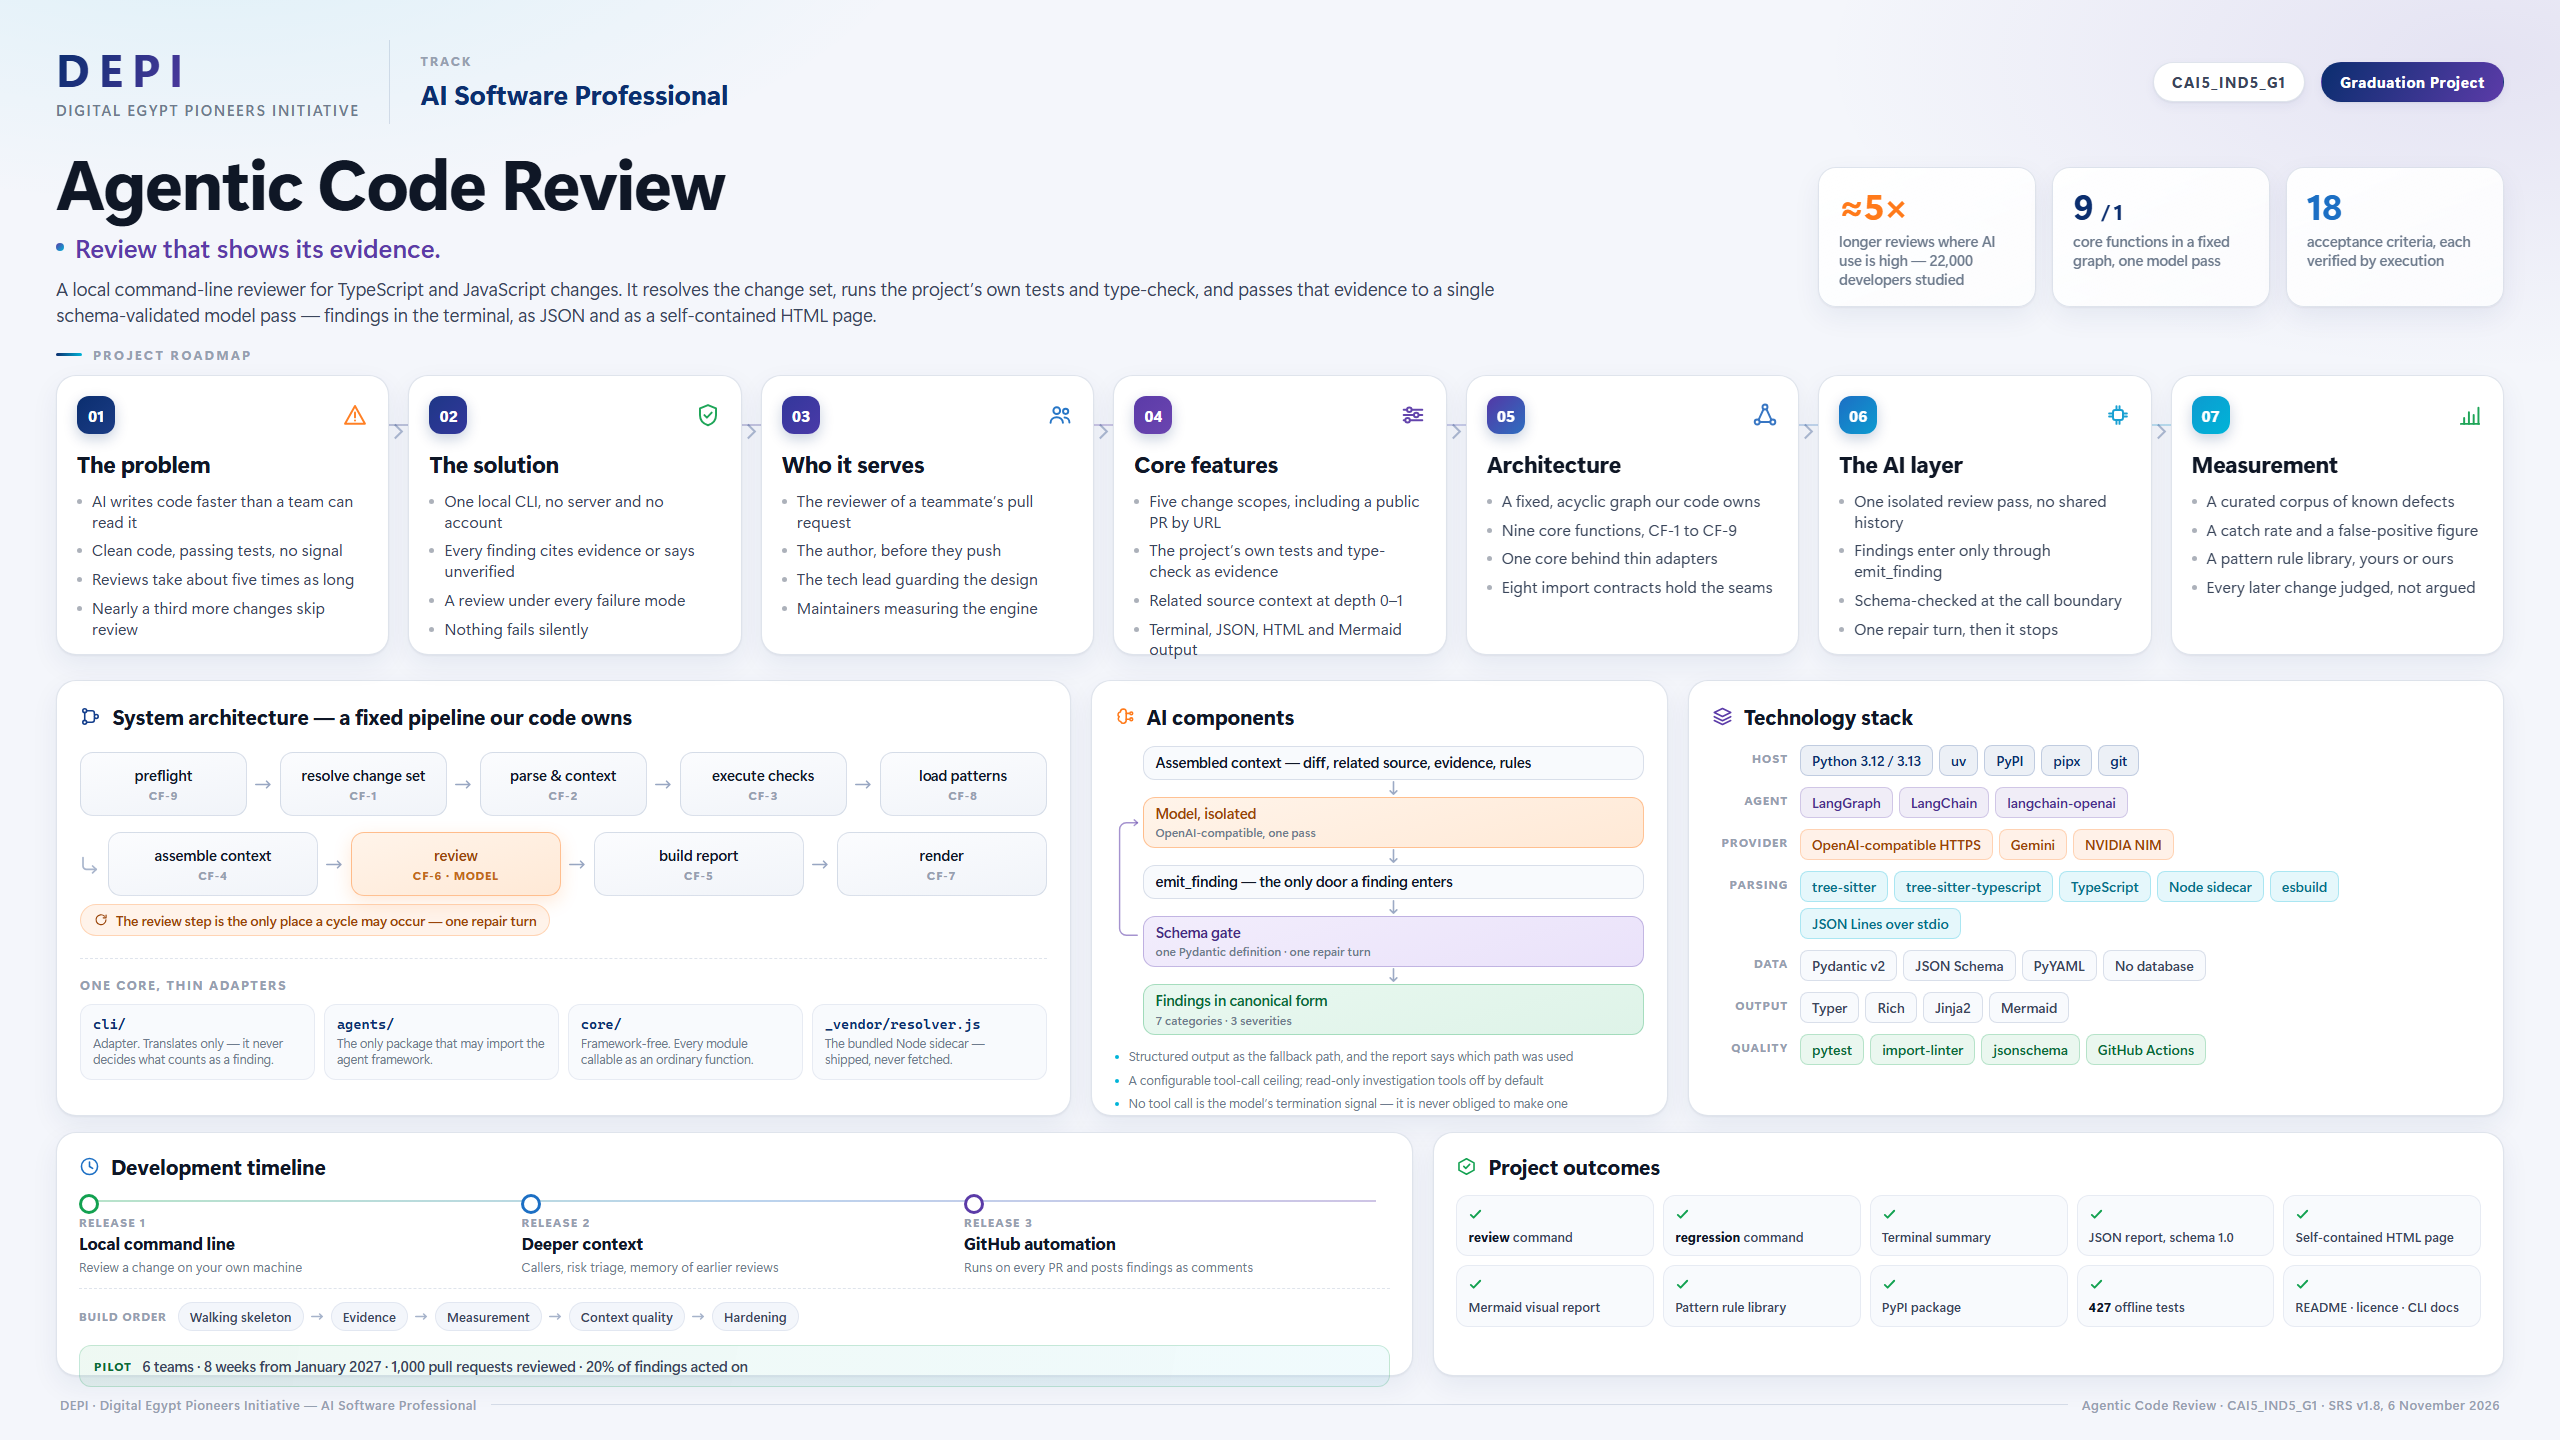
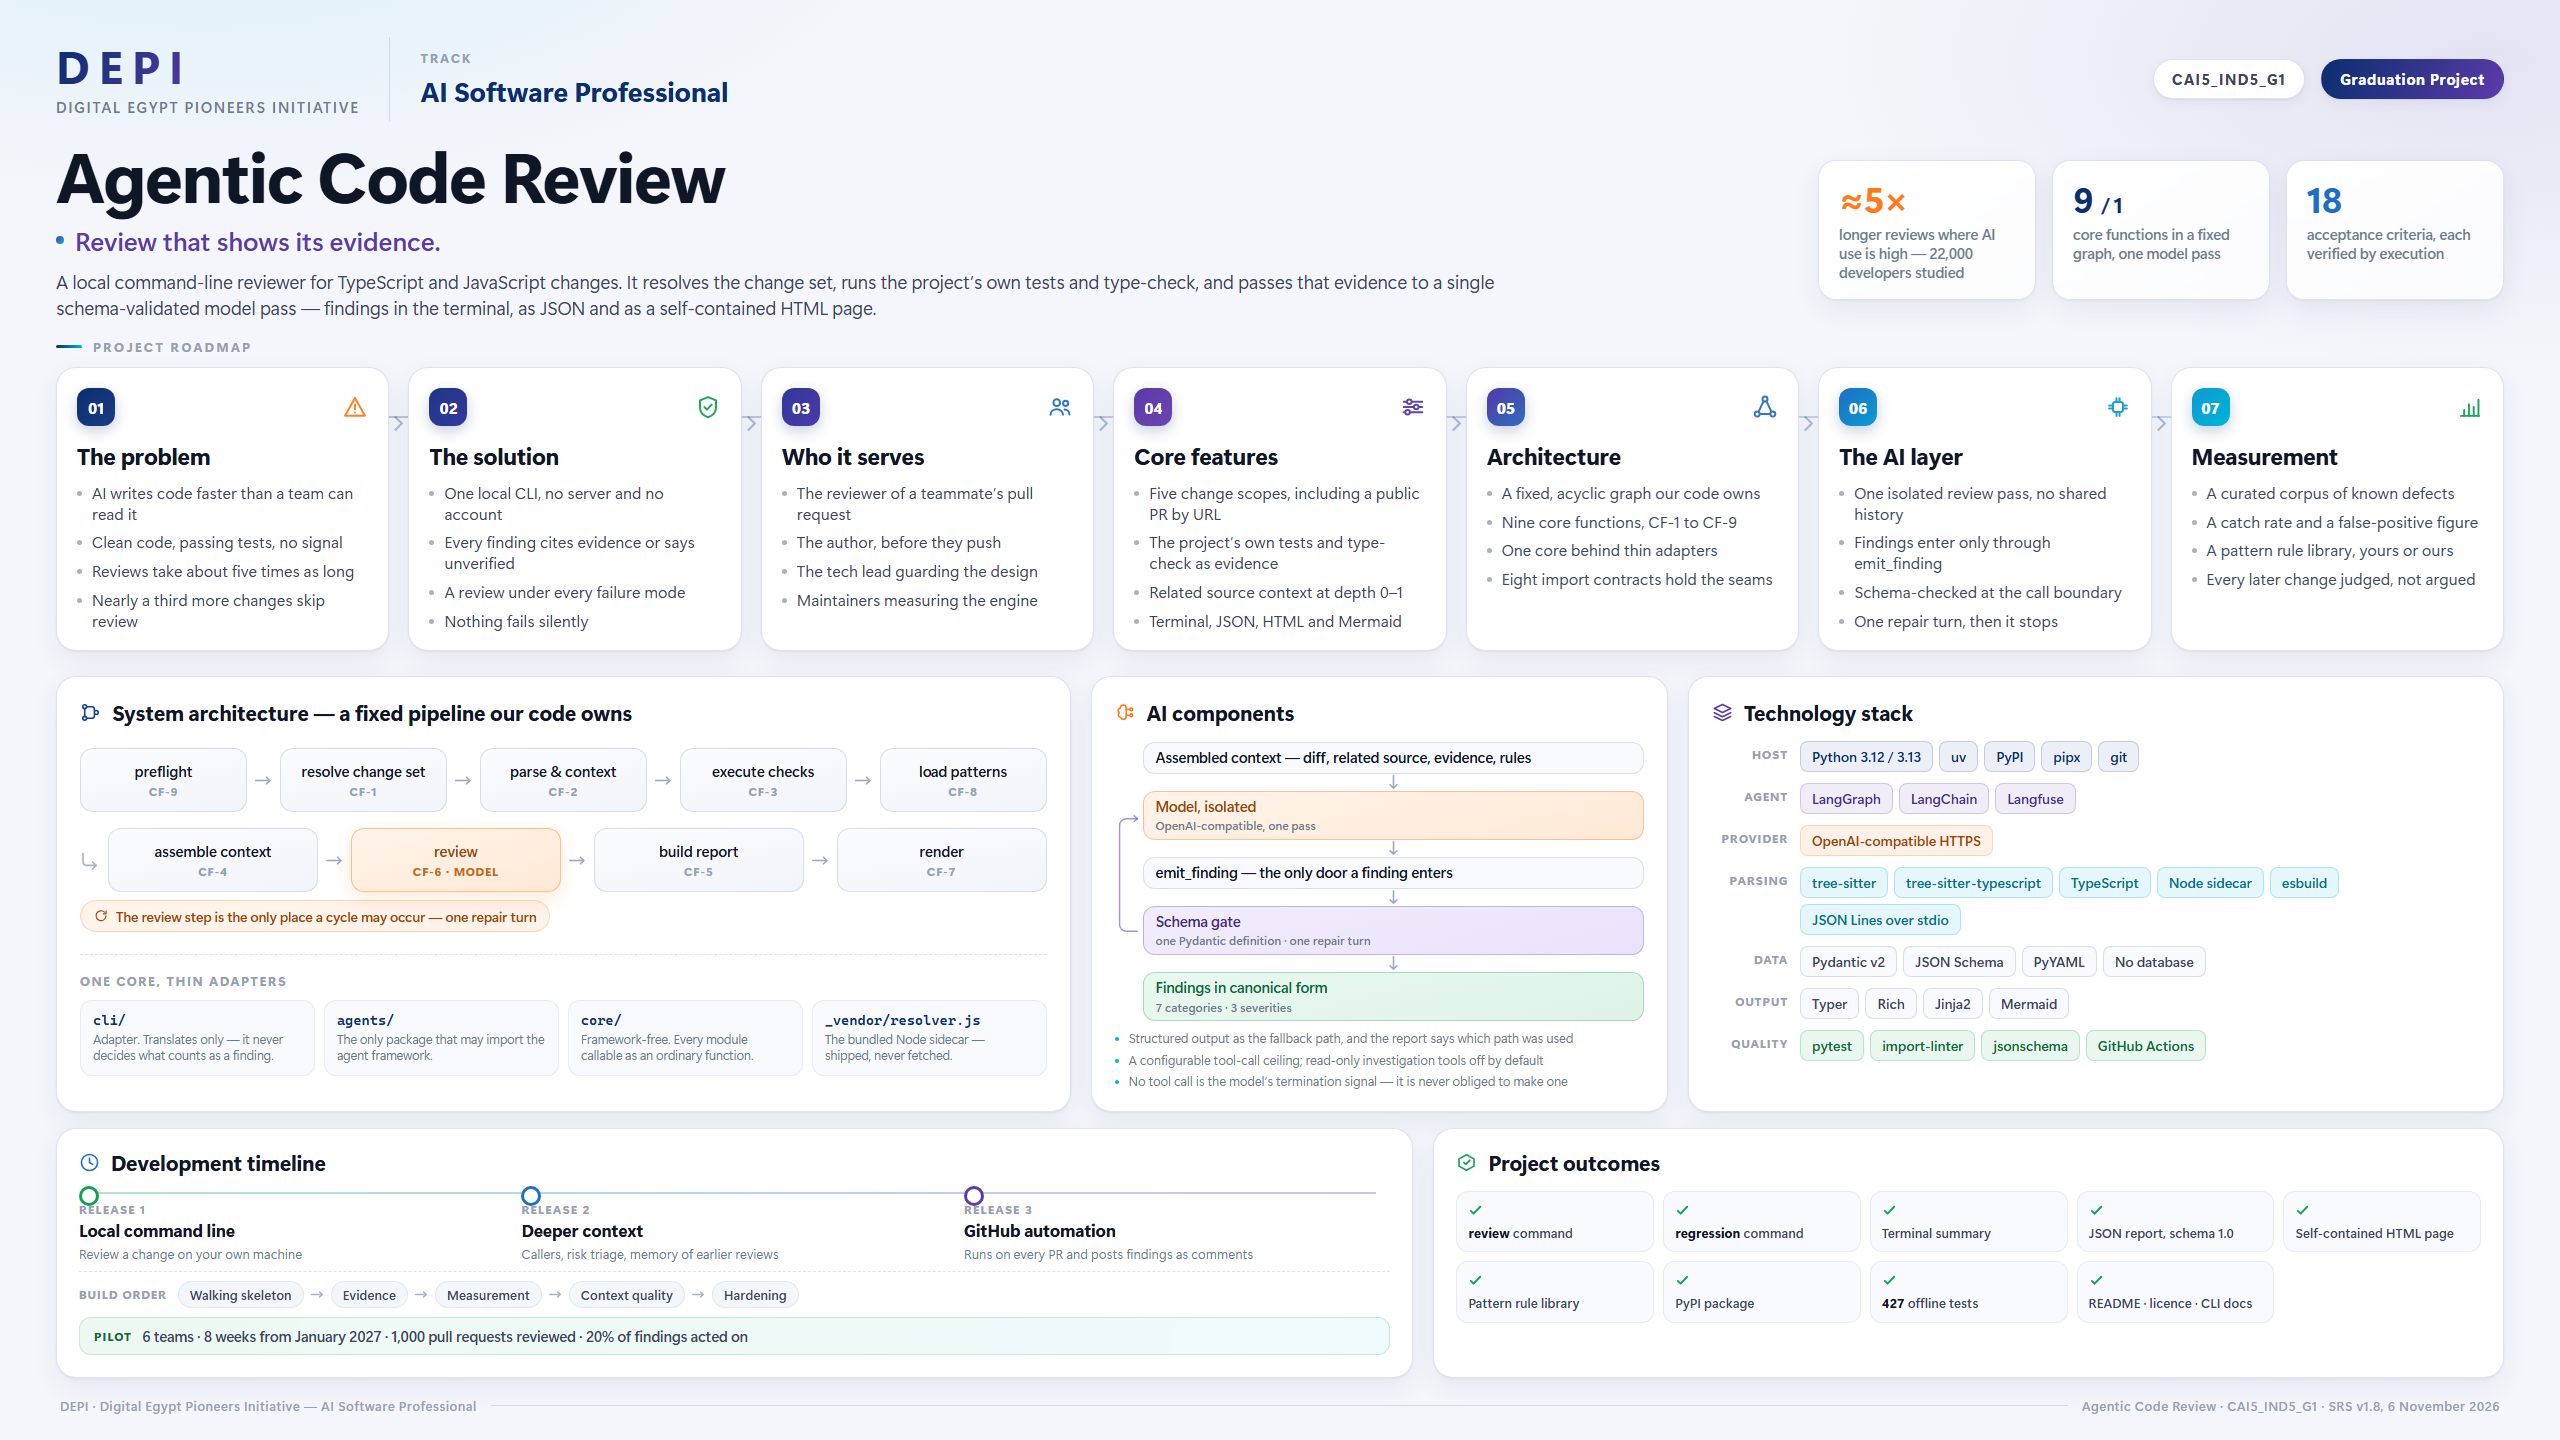
docs(infographic): keep card content inside its card, and revise the stack
Three boxes overflowed: the Core features stage by 6px, Development
timeline by 13px, and the AI components notes sat 14px into a 21px
bottom padding, so all three read as text crossing the card border.

Measured rather than eyeballed. Every .card and .st is now checked by
comparing its lowest child's bottom against its content-box bottom; the
worst box has 2.4px of headroom left and nothing scrolls. Space came
from the header, title and footer bands, which had slack, plus tighter
spacing in the two offenders and one bullet shortened by a line. The
folder README carries the console snippet that does the measuring.

Also revised, as asked: the provider row names only the protocol,
OpenAI-compatible HTTPS, rather than individual endpoints; Langfuse
replaces langchain-openai in the agent row; and the Mermaid visual
report is no longer listed as a project outcome.

diff --git a/Docs/assets/infographic/agentic-code-review-depi-slide.html b/Docs/assets/infographic/agentic-code-review-depi-slide.html
@@ -29,7 +29,7 @@ body{
 .band{flex:none}
 
 /* Band A - DEPI header */
-.hdr{height:92px;display:flex;align-items:center;gap:30px}
+.hdr{height:86px;display:flex;align-items:center;gap:30px}
 .mark{
   display:flex;flex-direction:column;justify-content:center;
   height:84px;padding:0 30px 0 0;border-right:1px solid var(--line);
@@ -52,7 +52,7 @@ body{
 .pill-id.accent{background:linear-gradient(118deg,var(--blue),var(--purple));border-color:transparent;color:#fff;letter-spacing:.06em}
 
 /* Band B - title strip */
-.title{height:186px;display:flex;align-items:center;gap:40px}
+.title{height:184px;display:flex;align-items:center;gap:40px}
 .title-l{flex:1;min-width:0}
 h1{font-size:70px;font-weight:720;letter-spacing:-.022em;line-height:1.02;color:var(--ink)}
 .tag{
@@ -81,8 +81,8 @@ h1{font-size:70px;font-weight:720;letter-spacing:-.022em;line-height:1.02;color:
 .ctitle svg{width:21px;height:21px;flex:none}
 
 /* Band C - roadmap */
-.road{height:318px}
-.track{position:relative;display:flex;gap:19px;height:280px}
+.road{height:322px}
+.track{position:relative;display:flex;gap:19px;height:284px}
 .track:before{
   content:"";position:absolute;left:30px;right:30px;top:49px;height:2px;border-radius:2px;
   background:linear-gradient(90deg,var(--blue) 0%,var(--purple) 48%,var(--cyan) 100%);opacity:.26;
@@ -147,7 +147,7 @@ h1{font-size:70px;font-weight:720;letter-spacing:-.022em;line-height:1.02;color:
 .ai{position:relative;margin-top:16px;padding-left:28px}
 .ai-loop{position:absolute;left:0;top:70px;width:26px;height:126px}
 .ai-step{
-  padding:7px 12px;border-radius:12px;border:1px solid var(--line);background:#F8FAFD;
+  padding:6px 12px;border-radius:12px;border:1px solid var(--line);background:#F8FAFD;
   font-size:14.5px;font-weight:600;color:var(--ink);line-height:1.22;
 }
 .ai-step .s{display:block;margin-top:3px;font-size:12px;font-weight:500;color:var(--ink-3)}
@@ -156,7 +156,7 @@ h1{font-size:70px;font-weight:720;letter-spacing:-.022em;line-height:1.02;color:
 .ai-step.out{background:linear-gradient(165deg,#E9F8F0,#DEF3E8);border-color:rgba(18,161,80,.3);color:#0B6B36}
 .ai-arw{display:flex;justify-content:center;padding:1px 0}
 .ai-arw svg{width:9px;height:15px;opacity:.4}
-.ai-notes{margin-top:13px;display:flex;flex-direction:column;gap:7px}
+.ai-notes{margin-top:9px;display:flex;flex-direction:column;gap:5px}
 .ai-notes div{position:relative;padding-left:14px;font-size:12.8px;font-weight:450;line-height:1.28;color:var(--ink-3)}
 .ai-notes div:before{content:"";position:absolute;left:0;top:7px;width:4px;height:4px;border-radius:50%;background:var(--cyan)}
 
@@ -172,23 +172,23 @@ h1{font-size:70px;font-weight:720;letter-spacing:-.022em;line-height:1.02;color:
 .bg.g{background:rgba(18,161,80,.09);border-color:rgba(18,161,80,.24);color:#0B6B36}
 
 /* Band E - timeline + outcomes */
-.foot{height:244px;display:flex;gap:20px}
+.foot{height:250px;display:flex;gap:20px}
 .foot>.card{padding:19px 22px}
 .tl{flex:1.28;min-width:0} .oc{flex:1;min-width:0}
-.rel{position:relative;margin-top:13px;display:flex;gap:16px}
+.rel{position:relative;margin-top:9px;display:flex;gap:16px}
 .rel:before{content:"";position:absolute;left:14px;right:14px;top:7px;height:2px;background:linear-gradient(90deg,var(--green),var(--blue-3),var(--purple));opacity:.3}
-.rl{flex:1;min-width:0;position:relative;padding-top:22px}
+.rl{flex:1;min-width:0;position:relative;padding-top:17px}
 .rl:before{content:"";position:absolute;left:0;top:1px;width:14px;height:14px;border-radius:50%;background:#fff;border:3px solid var(--green)}
 .rl:nth-child(2):before{border-color:var(--blue-3)} .rl:nth-child(3):before{border-color:var(--purple)}
 .rl .r{font-size:11.5px;font-weight:700;letter-spacing:.13em;color:var(--ink-4)}
 .rl .h{margin-top:2px;font-size:17px;font-weight:660;letter-spacing:-.008em;color:var(--ink)}
 .rl .d{margin-top:4px;font-size:13.2px;font-weight:450;line-height:1.3;color:var(--ink-3)}
-.steps{margin-top:13px;padding-top:13px;border-top:1px dashed var(--line);display:flex;align-items:center;gap:7px}
+.steps{margin-top:9px;padding-top:9px;border-top:1px dashed var(--line);display:flex;align-items:center;gap:7px}
 .steps .lb{flex:none;font-size:11.5px;font-weight:700;letter-spacing:.11em;text-transform:uppercase;color:var(--ink-4);margin-right:4px}
-.sp{padding:5px 11px;border-radius:999px;background:#F3F6FB;border:1px solid var(--line-2);font-size:13.2px;font-weight:570;color:var(--ink-2);white-space:nowrap}
+.sp{padding:4px 11px;border-radius:999px;background:#F3F6FB;border:1px solid var(--line-2);font-size:13.2px;font-weight:570;color:var(--ink-2);white-space:nowrap}
 .steps .sq{flex:none;width:13px;height:7px;opacity:.36}
 .pilot{
-  margin-top:14px;display:flex;align-items:center;gap:10px;padding:10px 14px;border-radius:12px;
+  margin-top:9px;display:flex;align-items:center;gap:10px;padding:8px 14px;border-radius:12px;
   background:linear-gradient(100deg,rgba(18,161,80,.07),rgba(0,180,216,.06));
   border:1px solid rgba(18,161,80,.2);
 }
@@ -200,7 +200,7 @@ h1{font-size:70px;font-weight:720;letter-spacing:-.022em;line-height:1.02;color:
 .ot .x{font-size:13.2px;font-weight:570;line-height:1.24;color:var(--ink-2)}
 .ot .x b{font-weight:680;color:var(--ink)}
 
-.sig{height:24px;display:flex;align-items:center;gap:14px;padding:0 4px}
+.sig{height:22px;display:flex;align-items:center;gap:14px;padding:0 4px}
 .sig .ln{flex:1;height:1px;background:var(--line)}
 .sig .tx{font-size:13px;font-weight:540;letter-spacing:.04em;color:var(--ink-4);white-space:nowrap}
 </style>
@@ -295,7 +295,7 @@ h1{font-size:70px;font-weight:720;letter-spacing:-.022em;line-height:1.02;color:
         <li>Five change scopes, including a public PR by URL</li>
         <li>The project&rsquo;s own tests and type-check as evidence</li>
         <li>Related source context at depth 0&ndash;1</li>
-        <li>Terminal, JSON, HTML and Mermaid output</li>
+        <li>Terminal, JSON, HTML and Mermaid</li>
       </ul>
     </div>
 
@@ -430,10 +430,10 @@ h1{font-size:70px;font-weight:720;letter-spacing:-.022em;line-height:1.02;color:
         <span class="bg b">Python 3.12 / 3.13</span><span class="bg b">uv</span><span class="bg b">PyPI</span><span class="bg b">pipx</span><span class="bg b">git</span>
       </div></div>
       <div class="sg"><div class="lb">Agent</div><div class="bs">
-        <span class="bg p">LangGraph</span><span class="bg p">LangChain</span><span class="bg p">langchain-openai</span>
+        <span class="bg p">LangGraph</span><span class="bg p">LangChain</span><span class="bg p">Langfuse</span>
       </div></div>
       <div class="sg"><div class="lb">Provider</div><div class="bs">
-        <span class="bg o">OpenAI-compatible HTTPS</span><span class="bg o">Gemini</span><span class="bg o">NVIDIA NIM</span>
+        <span class="bg o">OpenAI-compatible HTTPS</span>
       </div></div>
       <div class="sg"><div class="lb">Parsing</div><div class="bs">
         <span class="bg c">tree-sitter</span><span class="bg c">tree-sitter-typescript</span><span class="bg c">TypeScript</span><span class="bg c">Node sidecar</span><span class="bg c">esbuild</span><span class="bg c">JSON Lines over stdio</span>
@@ -494,7 +494,6 @@ h1{font-size:70px;font-weight:720;letter-spacing:-.022em;line-height:1.02;color:
       <div class="ot"><svg viewBox="0 0 16 16" fill="none" stroke="currentColor" stroke-width="2" stroke-linecap="round" stroke-linejoin="round"><path d="M3 8.4l3 3 7-7.4"/></svg><div class="x">Terminal summary</div></div>
       <div class="ot"><svg viewBox="0 0 16 16" fill="none" stroke="currentColor" stroke-width="2" stroke-linecap="round" stroke-linejoin="round"><path d="M3 8.4l3 3 7-7.4"/></svg><div class="x">JSON report, schema 1.0</div></div>
       <div class="ot"><svg viewBox="0 0 16 16" fill="none" stroke="currentColor" stroke-width="2" stroke-linecap="round" stroke-linejoin="round"><path d="M3 8.4l3 3 7-7.4"/></svg><div class="x">Self-contained HTML page</div></div>
-      <div class="ot"><svg viewBox="0 0 16 16" fill="none" stroke="currentColor" stroke-width="2" stroke-linecap="round" stroke-linejoin="round"><path d="M3 8.4l3 3 7-7.4"/></svg><div class="x">Mermaid visual report</div></div>
       <div class="ot"><svg viewBox="0 0 16 16" fill="none" stroke="currentColor" stroke-width="2" stroke-linecap="round" stroke-linejoin="round"><path d="M3 8.4l3 3 7-7.4"/></svg><div class="x">Pattern rule library</div></div>
       <div class="ot"><svg viewBox="0 0 16 16" fill="none" stroke="currentColor" stroke-width="2" stroke-linecap="round" stroke-linejoin="round"><path d="M3 8.4l3 3 7-7.4"/></svg><div class="x">PyPI package</div></div>
       <div class="ot"><svg viewBox="0 0 16 16" fill="none" stroke="currentColor" stroke-width="2" stroke-linecap="round" stroke-linejoin="round"><path d="M3 8.4l3 3 7-7.4"/></svg><div class="x"><b>427</b> offline tests</div></div>
